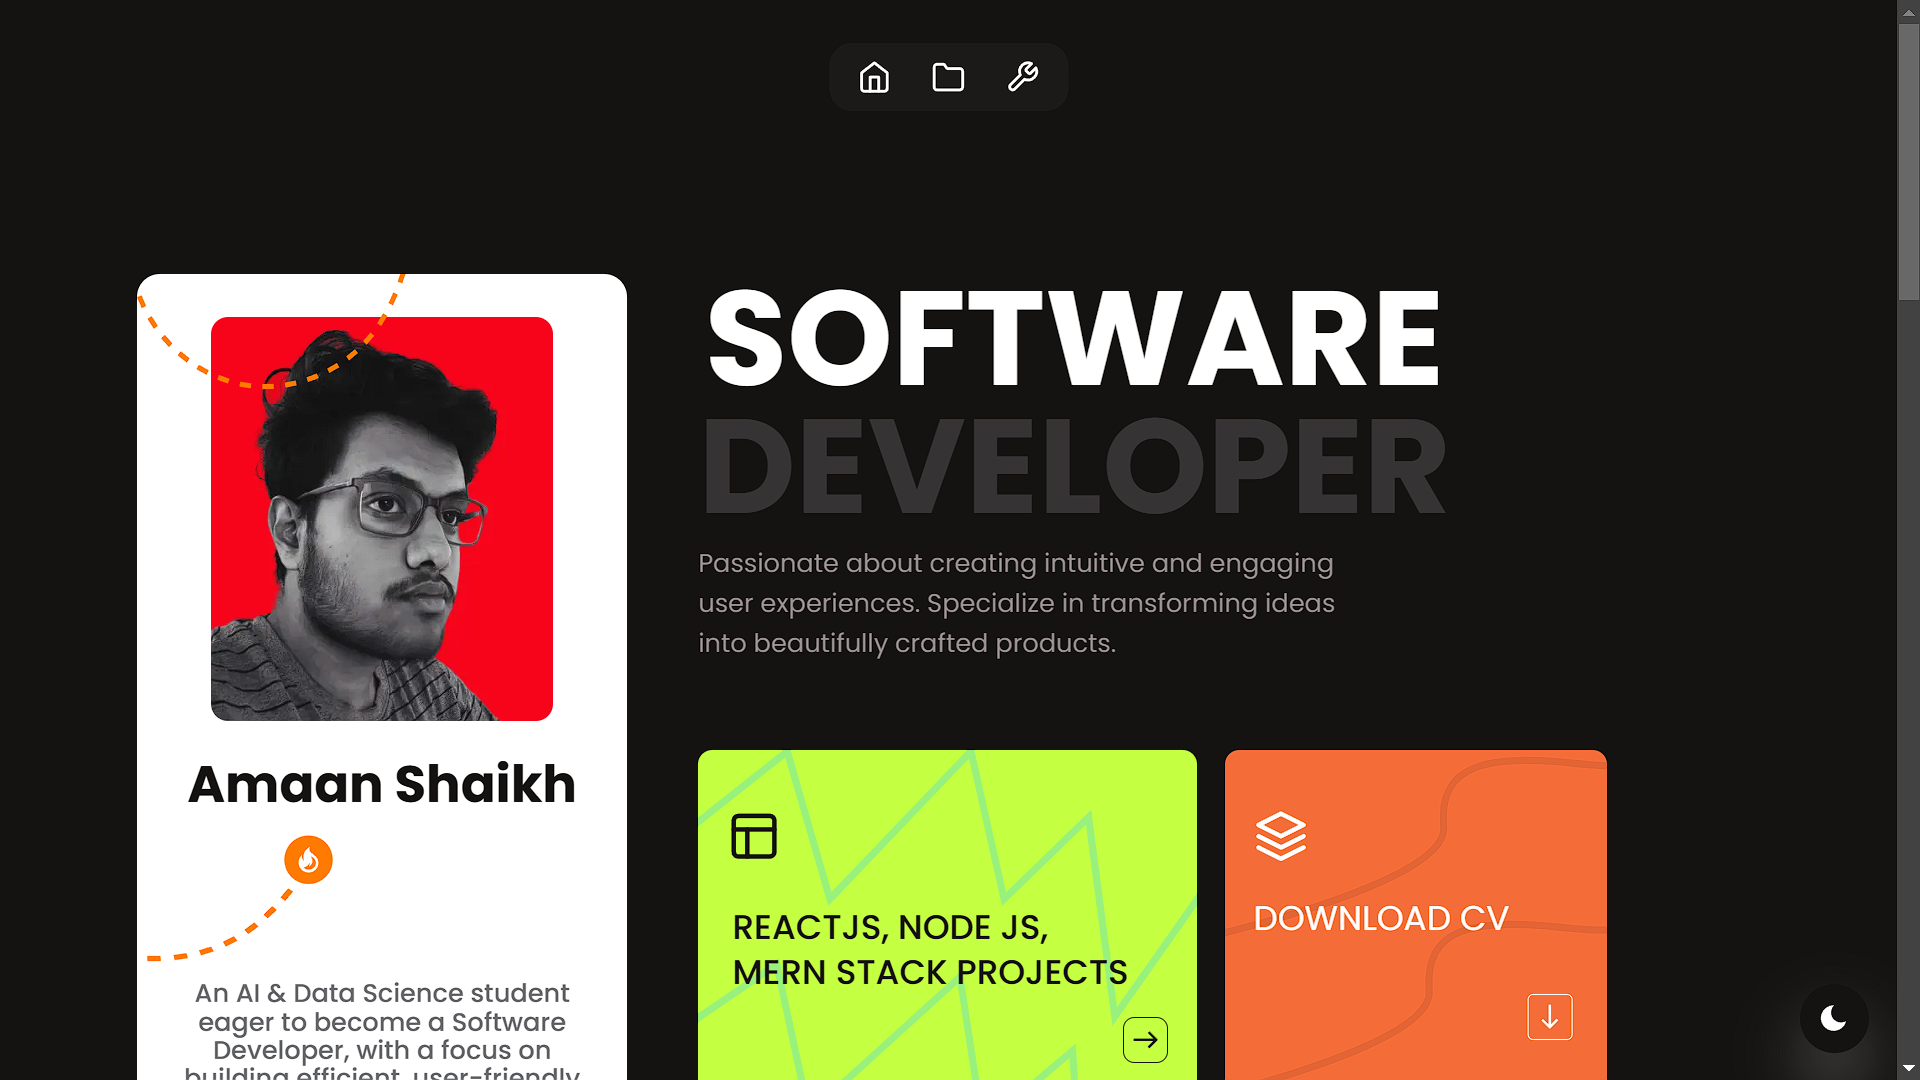
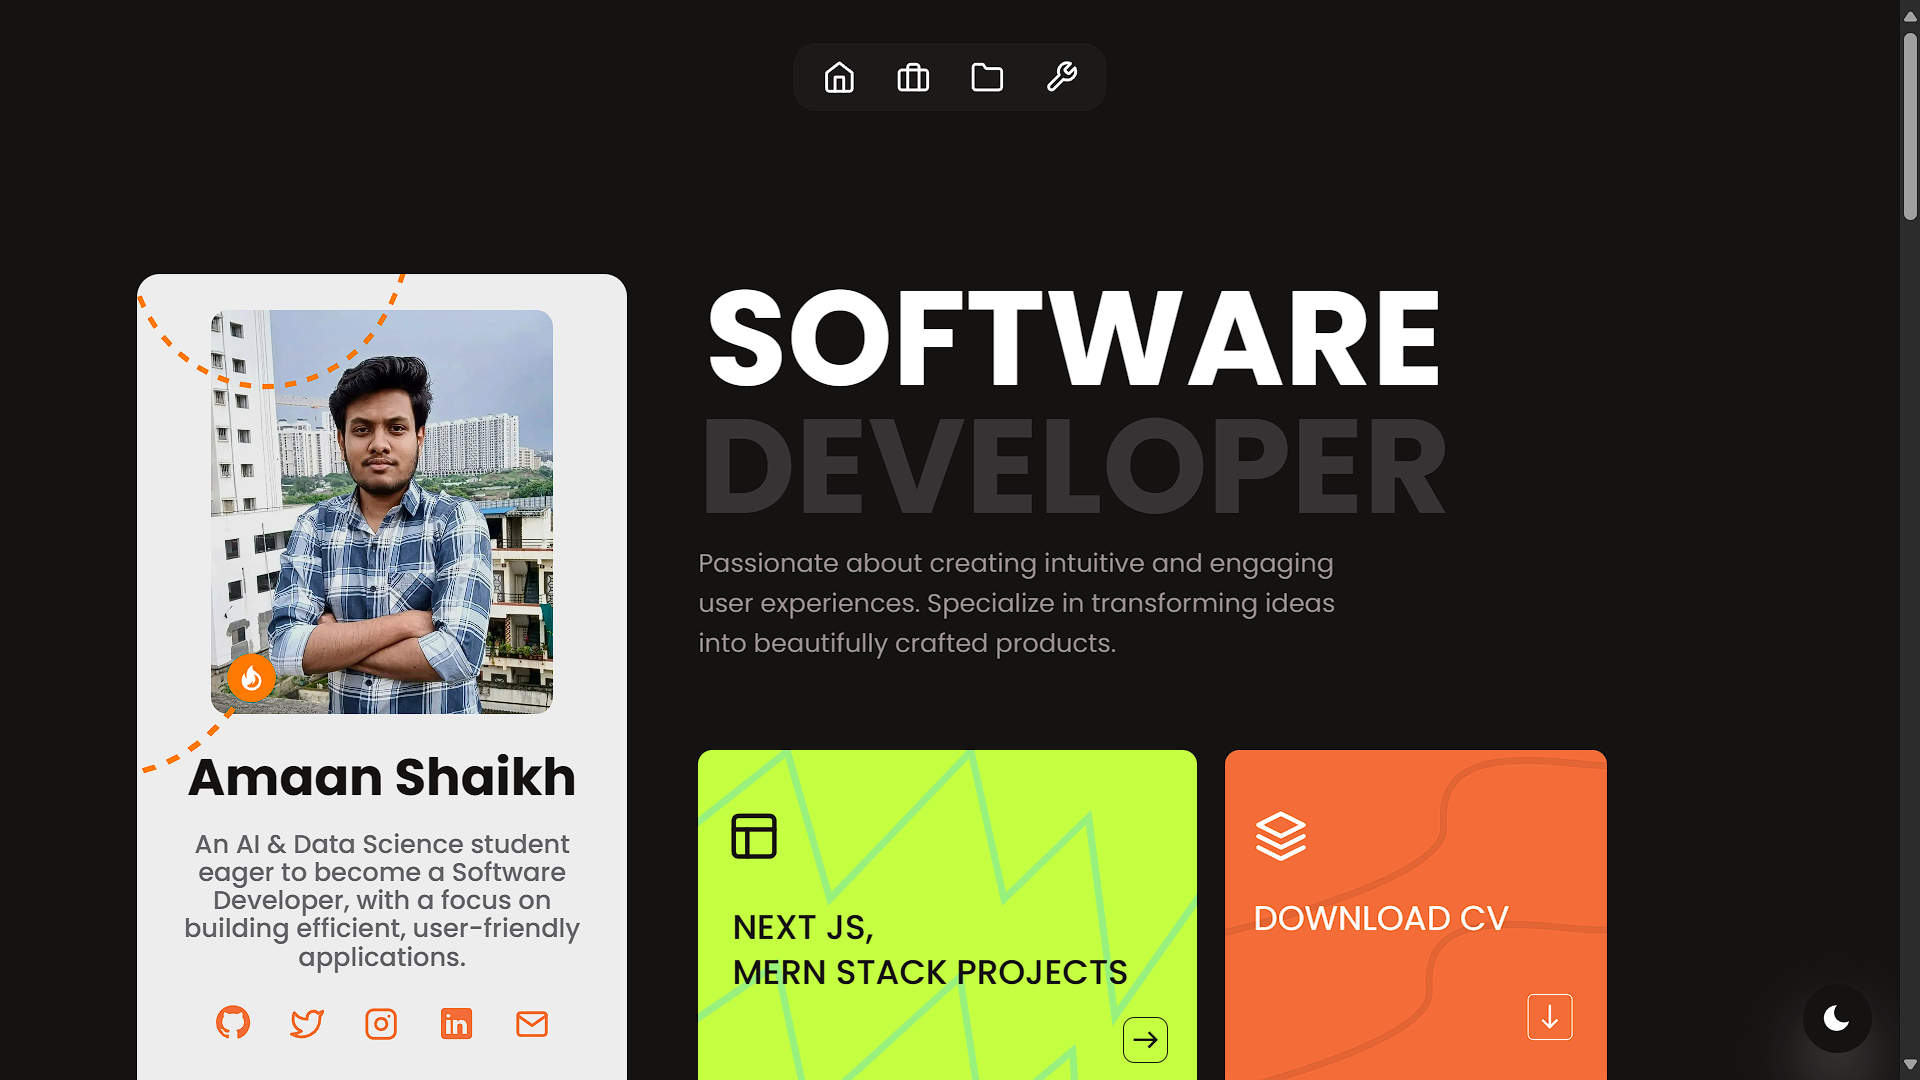
updated

diff --git a/src/components/ProfileCard.js b/src/components/ProfileCard.js
@@ -14,7 +14,7 @@ const ProfileCard = () => {
   return (
     <>
       <div className="flex flex-col items-center justify-center gap-10 h-min overflow-hidden p-0 sticky top-[40px] w-full will-change-transform ">
-        <div className="flex flex-col items-center justify-start gap-6 h-[525px] md:h-[590px] lg:h-[590px] overflow-hidden p-[30px_20px]  relative max-w-[750px] w-full lg:w-[344px] will-change-transform bg-[#EDEDED] rounded-[16px] opacity-100">
+        <div className="flex flex-col items-center justify-start gap-6 h-[525px] md:h-[580px] overflow-hidden p-[25px_20px]  relative max-w-[750px] w-full lg:w-[344px] will-change-transform bg-[#EDEDED] rounded-[16px] opacity-100">
           <div className="flex flex-row items-center justify-center h-[100px] left-0 md:left-[171px] lg:left-0 overflow-visible p-0 absolute top-[-37px] md:top-[-34px] lg:top-[-18px] w-[194px] z-10">
             <svg
               xmlns="http://www.w3.org/2000/svg"
@@ -59,7 +59,7 @@ const ProfileCard = () => {
               </div>
             </div>
           </div>
-          <div className="flex items-center justify-center flex-none flex-row gap-[10px] h-[166px] overflow-visible p-4 absolute left-[-175px] md:left-[-175px] top-[150px] md:top-[225px] w-[275px]">
+          <div className="flex items-center justify-center flex-none flex-row gap-[10px] h-[166px] overflow-visible p-4 absolute left-[-175px] top-[150px] md:top-[220px] w-[275px]">
             <svg
               xmlns="http://www.w3.org/2000/svg"
               xmlnsXlink="http://www.w3.org/1999/xlink"

diff --git a/src/components/RecentProjects.js b/src/components/RecentProjects.js
@@ -2,6 +2,7 @@ import React from "react";
 import Image from "next/image";
 import EmployMeeImage from "../assets/employ-mee-image.png";
 import SpendLessImage from "../assets/spend-less-website.png";
+import CuraLinkImage from "../assets/curalink-image.png";
 import QuizImage from "../assets/quiz-website-image.png";
 import PortfolioImage from "../assets/portfolio-website.png";
 import ProjectCard from "./ProjectCard";
@@ -31,6 +32,12 @@ const RecentProjects = () => {
               title={"SpendLess"}
               description={"A Finance Manager Website"}
               link={"https://spend-less.vercel.app/"}
+            />
+            <ProjectCard
+              image={CuraLinkImage}
+              title={"CuraLink"}
+              description={"A Healthcare Management Website"}
+              link={"https://curalink-appointments.vercel.app/"}
             />
             <ProjectCard
               image={QuizImage}

diff --git a/src/components/ProjectCard.js b/src/components/ProjectCard.js
@@ -41,7 +41,7 @@ const ProjectCard = ({ image, title, description, link = "/" }) => {
             </svg>
           </div>
           <div className="flex flex-row flex-nowrap items-center justify-start gap-5 h-min overflow-hidden relative ">
-            <div className="rounded-lg opacity-100 flex-none h-20 md:h-28 w-20 md:w-28 overflow-hidden relative will-change-transform">
+            <div className="rounded-lg opacity-100 flex-none h-20 md:h-28 w-20 md:w-40 overflow-hidden relative will-change-transform">
               <div className="absolute rounded-inherit top-0 right-0 bottom-0 left-0">
                 <Image
                   src={image}

diff --git a/src/components/Footer.js b/src/components/Footer.js
@@ -1,0 +1,17 @@
+import React from "react";
+
+const Footer = () => {
+  return (
+    <div>
+      <footer class="pb-10 px-12 text-center dark:text-[#998f8f] text-darkGray overflow-hidden">
+        <p class="text-xs ">
+          <span class="font-semibold text-[#f46c38]">Amaan Shaikh 2024</span> -
+          Build with NextJS (Page Routes &amp; Server API Actions), JavaScript,
+          TailwindCSS, Framer Motion, Nodemailer, Vercel Hosting.
+        </p>
+      </footer>
+    </div>
+  );
+};
+
+export default Footer;

diff --git a/src/pages/_app.js b/src/pages/_app.js
@@ -6,6 +6,7 @@ import "@/styles/globals.css";
 import { Poppins } from "next/font/google";
 import Head from "next/head";
 import { Analytics } from "@vercel/analytics/react";
+import Footer from "@/components/Footer";
 
 const poppins = Poppins({
   subsets: ["latin"],
@@ -26,6 +27,7 @@ export default function App({ Component, pageProps }) {
         <Component {...pageProps} />
         <Analytics />
         <ThemeToggle />
+        <Footer />
       </main>
     </>
   );
